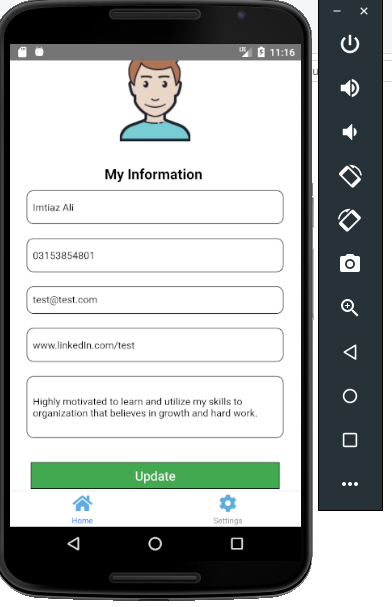
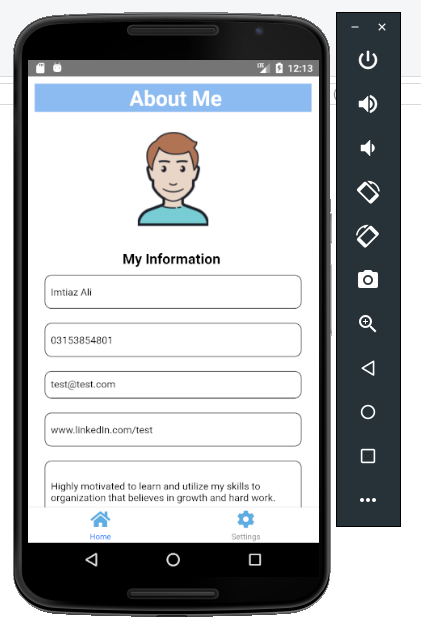
updated ui of resume generation

diff --git a/ResumeBuilder/src/HomeScreens/resumeComponents/Section.js b/ResumeBuilder/src/HomeScreens/resumeComponents/Section.js
@@ -10,7 +10,7 @@ class Section extends Component {
           <Text
             style={{
               // borderWidth: 1,
-              backgroundColor:"#41A950",
+              backgroundColor:"#5DADE2",
               color:"white",
               borderRadius: 5,
               paddingLeft:10,

diff --git a/ResumeBuilder/src/updationScreen/Profile.js b/ResumeBuilder/src/updationScreen/Profile.js
@@ -193,7 +193,7 @@ const styles=StyleSheet.create({
   },
   updateButton:{
     // borderBottomLeftRadius:20,
-    backgroundColor:'#41A950',
+    backgroundColor:'#5DADE2',
     // borderTopRightRadius:20,
     padding:6,
     borderWidth:1,
